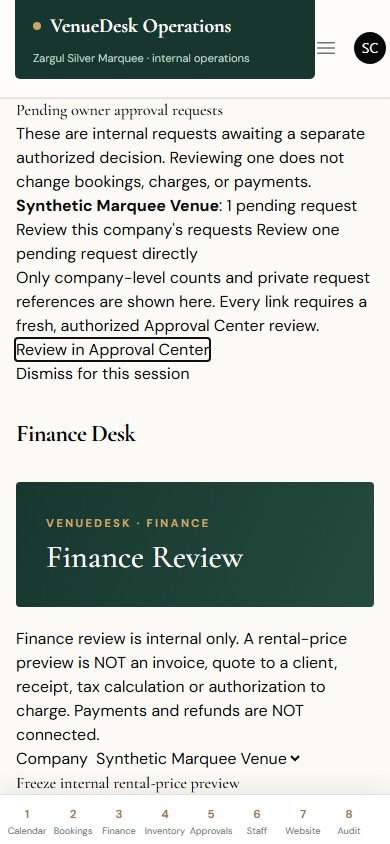
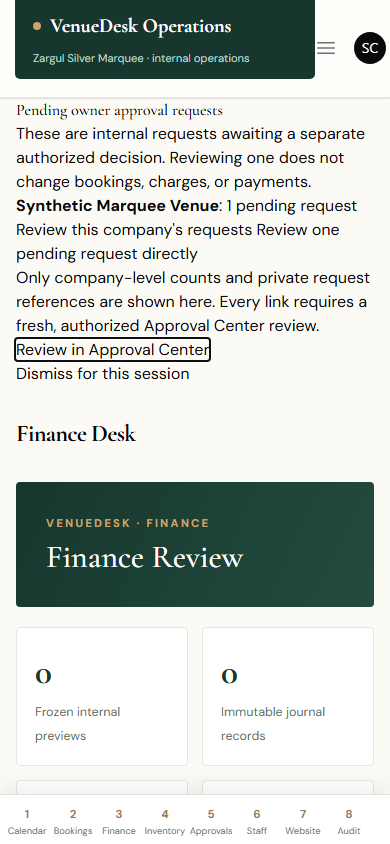
fix(ui): correct proposal review count and summarize remaining modules

Changed region(s): [[0.0308, 0.7393, 0.8923, 0.955]]

diff --git a/backend/resources/views/filament/pages/finance-desk.blade.php b/backend/resources/views/filament/pages/finance-desk.blade.php
@@ -1,6 +1,12 @@
 <x-filament-panels::page>
     <div class="space-y-6">
         <x-venuedesk.header eyebrow="VenueDesk · Finance" title="Finance Review" />
+        <div class="vd-metrics" aria-label="Finance workspace summary">
+            <div class="vd-metric"><b>{{ count($previews) }}</b><span>Frozen internal previews</span></div>
+            <div class="vd-metric"><b>{{ count($journals) }}</b><span>Immutable journal records</span></div>
+            <div class="vd-metric"><b>{{ count($closeouts) }}</b><span>UTC cash closeouts</span></div>
+            <div class="vd-metric"><b>{{ count($dailyReconciliation) }}</b><span>Daily reconciliation rows</span></div>
+        </div>
         <p class="text-sm text-gray-700 dark:text-gray-300">
             Finance review is internal only. A rental-price preview is NOT an invoice, quote to a client,
             receipt, tax calculation or authorization to charge. Payments and refunds are NOT connected.

diff --git a/backend/resources/views/filament/pages/hall-inventory.blade.php b/backend/resources/views/filament/pages/hall-inventory.blade.php
@@ -1,6 +1,12 @@
 <x-filament-panels::page>
     <div class="space-y-6" x-data="{ focused: true, area: 'overview' }">
         <x-venuedesk.header eyebrow="VenueDesk · Inventory" title="Hall Inventory" />
+        <div class="vd-metrics" aria-label="Inventory workspace summary">
+            <div class="vd-metric"><b>{{ count($catalog) }}</b><span>Catalog records</span></div>
+            <div class="vd-metric"><b>{{ count($positionReport) }}</b><span>Position report rows</span></div>
+            <div class="vd-metric"><b>{{ count($stocktakeHistory) }}</b><span>Stocktake history</span></div>
+            <div class="vd-metric"><b>{{ count($stocktakeVariance) }}</b><span>Variance rows</span></div>
+        </div>
         <p class="text-sm text-gray-600 dark:text-gray-300">
             Hall-owned inventory catalog and witnessed physical count records.
             Creating an item does not purchase inventory or change owned stock.

diff --git a/backend/resources/views/filament/pages/website-workspace.blade.php b/backend/resources/views/filament/pages/website-workspace.blade.php
@@ -1,6 +1,12 @@
 <x-filament-panels::page>
     <div class="space-y-6">
         <x-venuedesk.header eyebrow="VenueDesk · Website" title="Website & CMS" />
+        <div class="vd-metrics" aria-label="Website workspace summary">
+            <div class="vd-metric"><b>{{ count($sections) }}</b><span>Page sections in draft</span></div>
+            <div class="vd-metric"><b>{{ count($columnMediaSelections) }}</b><span>Selected media columns</span></div>
+            <div class="vd-metric"><b>{{ $pageId ? '1' : '0' }}</b><span>Page selected</span></div>
+            <div class="vd-metric"><b>{{ $branding['themePreset'] ?? '—' }}</b><span>Published theme</span></div>
+        </div>
         <p class="text-sm text-gray-600 dark:text-gray-300">
             Edit typed website sections, then save a draft for review. Only publishing changes the approved public snapshot.
         </p>

diff --git a/backend/tests/Feature/BookingProposalsLivewireTest.php b/backend/tests/Feature/BookingProposalsLivewireTest.php
@@ -104,7 +104,8 @@ class BookingProposalsLivewireTest extends TestCase
             ->assertSet('intakeName', '')
             ->assertSet('intakeEmail', '')
             ->assertDontSee('Private New Customer')
-            ->assertDontSee('new-private@example.test');
+            ->assertDontSee('new-private@example.test')
+            ->assertSee('<b>1</b><span>Awaiting review</span>', false);
         $this->assertSame(2, DB::table('customer_profiles')->where('company_id', $company->id)->count());
         $this->assertSame(1, DB::table('booking_drafts')->where('company_id', $company->id)
             ->where('status', 'under_review')->count());

diff --git a/backend/resources/views/filament/pages/booking-proposals.blade.php b/backend/resources/views/filament/pages/booking-proposals.blade.php
@@ -4,7 +4,7 @@
         @php
             $proposalStatusCounts = collect($entries)->countBy(fn ($entry) => (string) ($entry['status'] ?? 'unknown'));
             $proposalDrafts = (int) ($proposalStatusCounts['draft'] ?? 0);
-            $proposalReview = (int) ($proposalStatusCounts['submitted'] ?? 0);
+            $proposalReview = (int) ($proposalStatusCounts['under_review'] ?? 0);
         @endphp
         <div class="vd-metrics" aria-label="Booking proposal summary">
             <div class="vd-metric"><b>{{ count($entries) }}</b><span>Proposals in this view</span></div>
